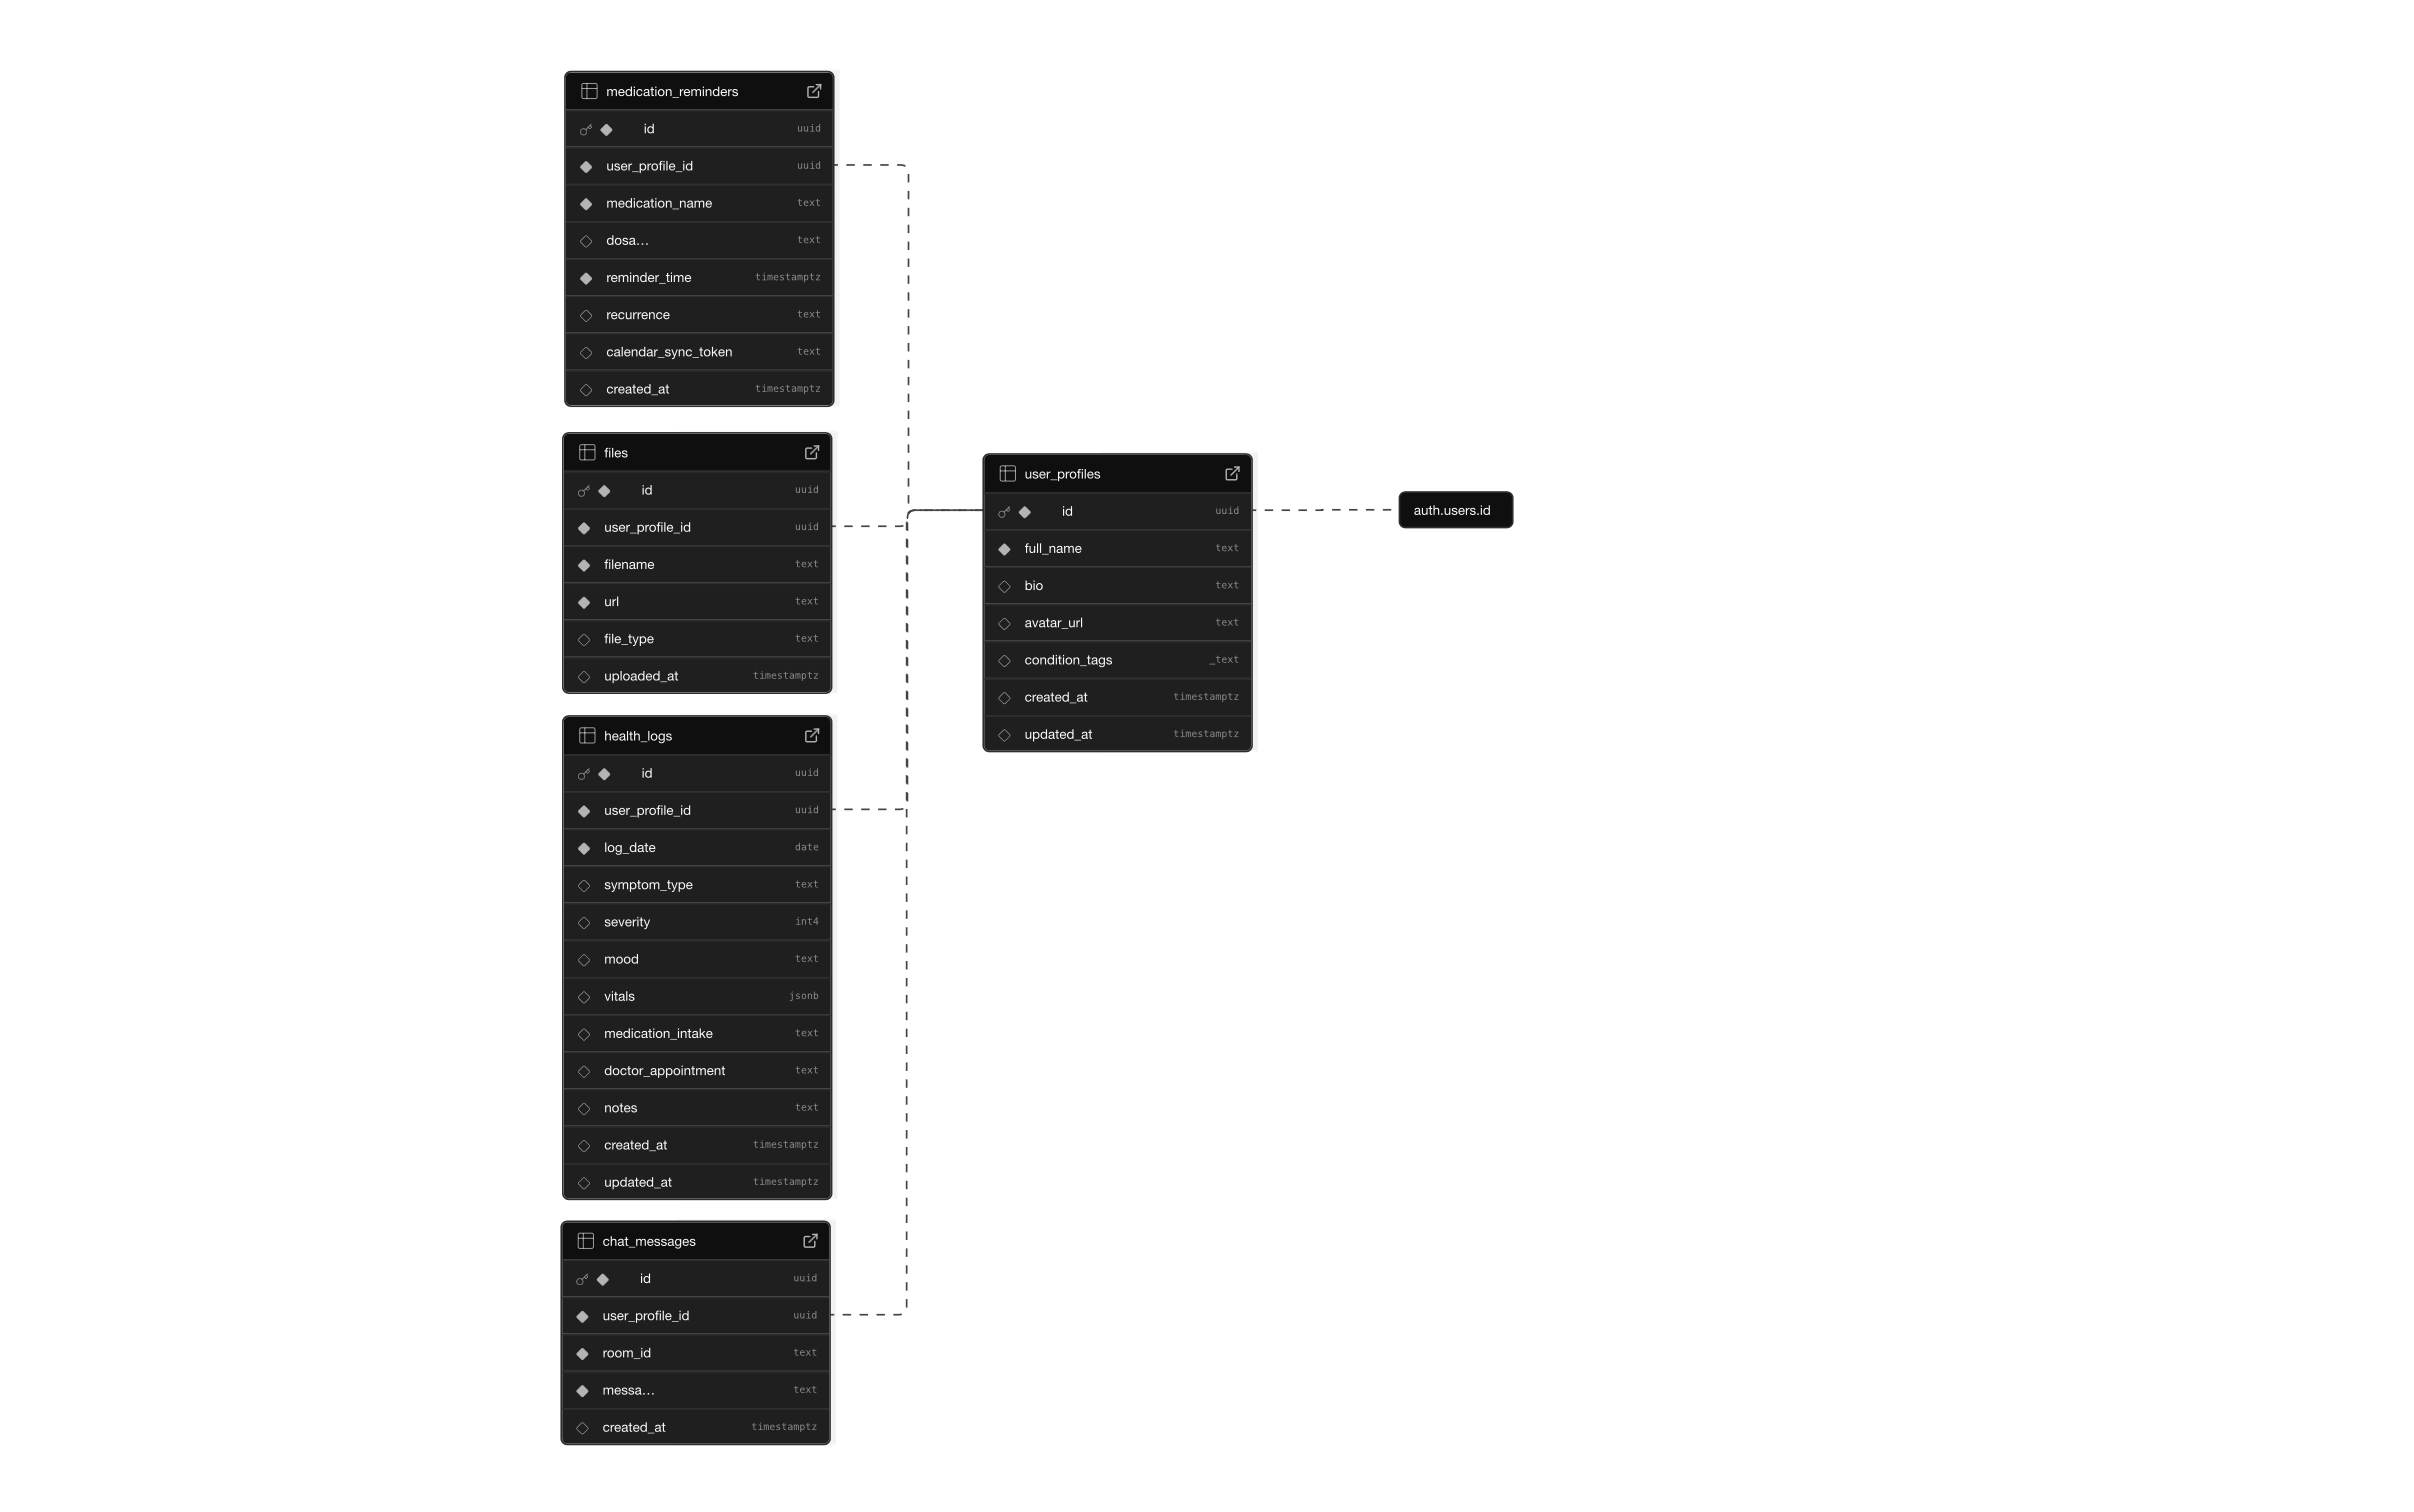
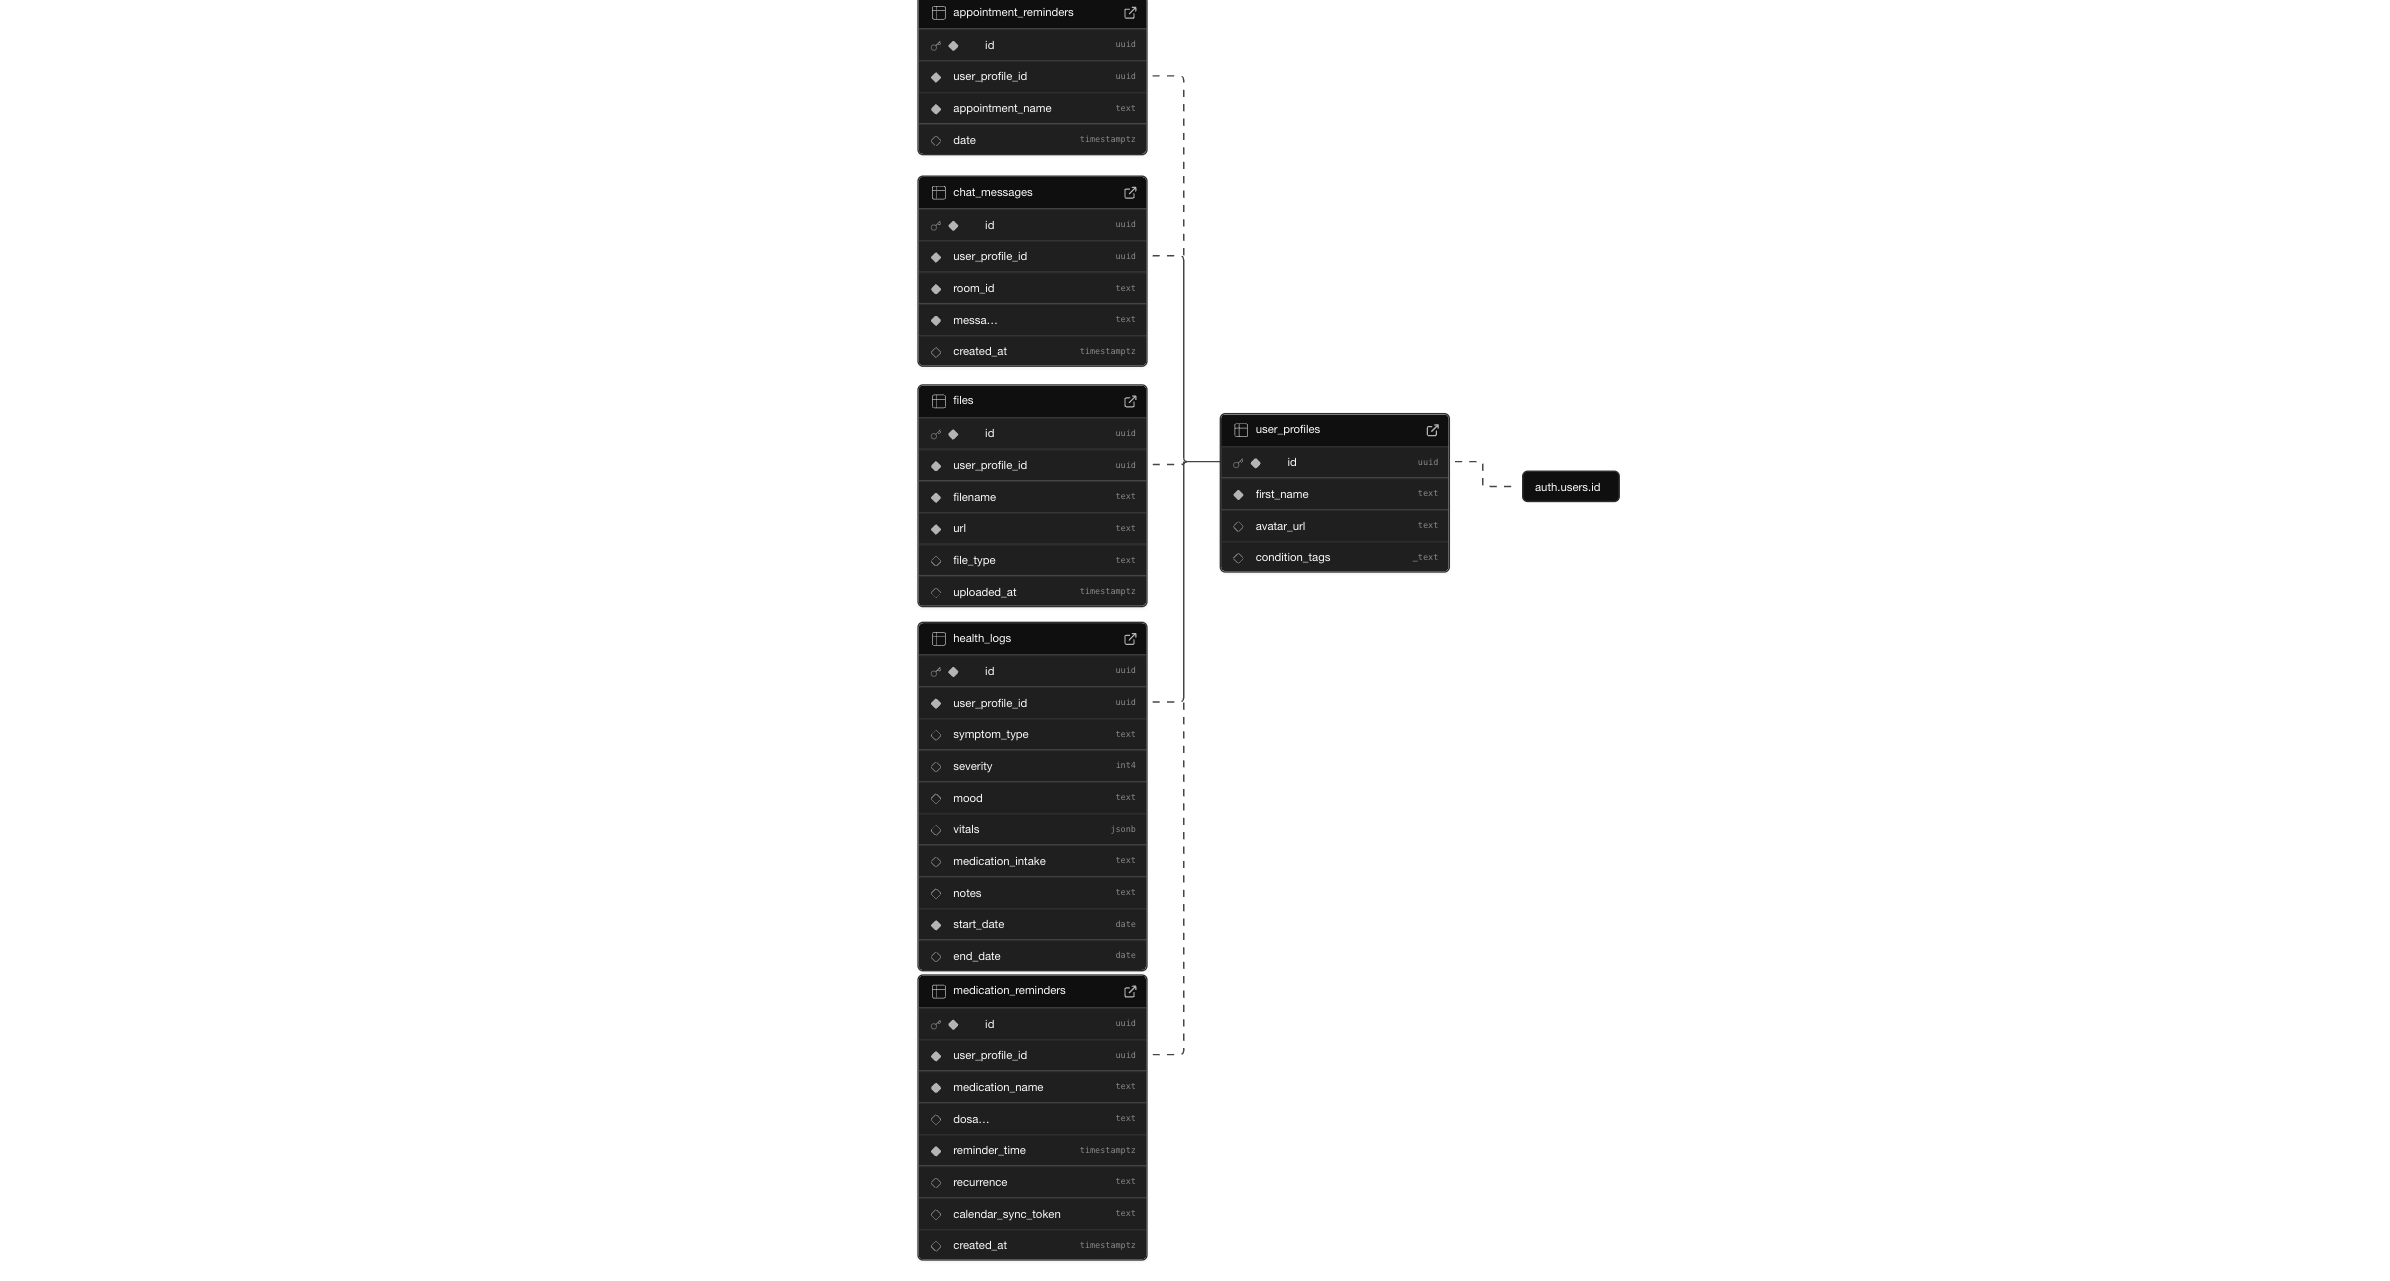
Update: Update Design Document

Changed region(s): [[0.2167, 0.0, 0.6812, 0.9992]]

diff --git a/docs/DESIGN.md b/docs/DESIGN.md
@@ -67,7 +67,7 @@
 
 ## Backend Database Schema
 
-![Database Schema](img/supabase-schema-pybcritybnehxwvkakzn(1).png)
+![Database Schema](img/db-schema.png)
 
 **Database Schema Overview**
 
@@ -90,7 +90,7 @@
 
 ## High-Fidelity Prototype
 
-_Replace this with an embedded Figma project here._ (TODO)
+Link to Figma prototype: [SymptomSync Figma Prototype](https://www.figma.com/design/YwoQ1OgAPYOfFOwlbf3aP0/COMP-426-Final-Project-Prototype?node-id=2-287&t=yC99fAWyYGJEOY3N-1)
 
 ---
 
